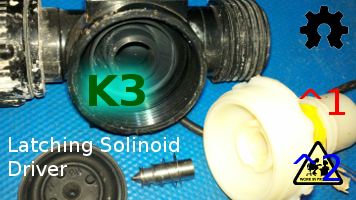
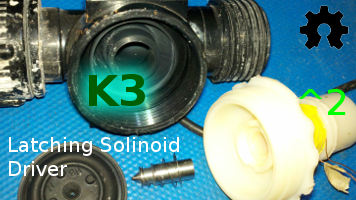
K3: ^2 evaluation

Changed region(s): [[0.8034, 0.69, 0.9888, 0.93], [0.8343, 0.42, 0.9888, 0.6]]

diff --git a/K3/Testing/readme.md b/K3/Testing/readme.md
@@ -19,12 +19,13 @@ This is a list of Test preformed on each board after assembly.
 
 ## Basics
 
-These tests are for an assembled K3 board 16276^1 which may be referred to as a Unit Under Test (UUT). If the UUT fails and can be reworked then do so, otherwise it needs to be scraped. 
+These tests are for an assembled K3 board 16276^2 which may be referred to as a Unit Under Test (UUT). If the UUT fails and can be reworked then do so, otherwise it needs to be scraped. 
 
 __Warning__: never use a soldering iron to rework ceramic capacitors due to the thermal shock.
 
-![Items used for test](./16276_ItemsUsedForTest.jpg "K3 With RPUno" "Items used for test")
+![ItemsForTest1to7](./16276_ItemsUsedForTest[1-7].jpg "Items used for test 1to7")
 
+![ItemsForTest8](./16276_ItemsUsedForTest[8].jpg "Items used for test 8")
 
 ## Assembly check
 
@@ -38,24 +39,24 @@ Check continuity between pin and pad by measuring the reverse body diode drop fr
 
 ## Bias 5V
 
-Setup a current limited supply with 5V and about 20mA limit. Connect A0, A1, A2 (J3 pin 1, 3, 5), and 0V (J3 pin 2,4,6; J2 pin 3) to the supply return. Connect SUPPLY (J2 pin 2) and VCC (J3 pin 8) to the supply. Connect E3 (which has a pull down) to a switch that is connected to supply when closed. Verify that nE1 (J3 pin 10) and nE2 (J3 pin 9) are pulled down by 10k Ohm resistors. Measure the input current while disabled.
+Setup a current limited supply with 5V and about 30mA limit. Connect A0 (J3 pin 1), A1 (J3 pin 3), A2 (J3 pin 5), and all 0V (J3 pin 2,4,6, J2 pin 3) to the supply return. Connect SUPPLY (J2 pin 2) and VCC (J3 pin 8) to the supply. Connect E3 (which has a pull down) to a switch that connects to supply when closed. Verify that nE1 (J3 pin 10) and nE2 (J3 pin 9) are each pulled down by 10k Ohm resistor. Measure the input current while disabled.
 
 ``` 
  TODO:  some data from unit(s)
-{"DISABLED_mA":[0.2,] }
+{"DISABLED_mA":[0.2,0.2,] }
 ``` 
 
 Close the switch that connects E3 to the 5V supply to turn on the current source that is used to test for a shorted bridge, wait for it to settle (about one second) and measure that the current drawn is less than 5 mA.
 
 ``` 
  TODO:  some data from unit(s)
-{"ENABLED_mA":[3.7,] }
+{"ENABLED_mA":[3.7,3.2,] }
 ``` 
 
 Add 100 Ohm load between BOOST (C4 plus pin) and 0V (J2 pin 3). Measure the current source.
 
 ``` 
-{ "CURR_SOURCE_mA":[17.6,] }
+{ "CURR_SOURCE_mA":[17.6,16.9,] }
 ``` 
 
 
@@ -64,20 +65,20 @@ Add 100 Ohm load between BOOST (C4 plus pin) and 0V (J2 pin 3). Measure the curr
 Setup current limited supply with 5V and about 400mA limit. Connect A1, A2 (J3 pin 3, 5), and 0V (J3 pin 2,4,6; J2 pin 3) to the supply return.  Connect A0, VCC (J3 pin 1, 8) and SUPPLY (J2 pin 2) to supply. Connect E3 (which has a pull down) to a switch that is connected to supply when closed. Connect 0 Ohm short between BOOST (C4 plus pin) and 0V (J2 pin 3). Turn on the supply and Check that boot supply is off (e.g. only current source). Which shows that a shorted bridge will lock out the supply.
 
 ```
-{ "9VBOOSTOFF_mA":[17.6,]}
+{ "9VBOOSTOFF_mA":[17.6,16.9,]}
 ```
 
 Open the 0 Ohm load and Check that the boost voltage is 9V.
 
 ```
-{ "9VBOOST_V":[9.2,]}
+{ "9VBOOST_V":[9.2,9.3]}
 ```
 
 Connect a 100 Ohm load between BOOST (C4 plus pin) and 0V (J2 pin 3). Check BOOST voltage and current draw.
 
 ```
-{ "9VBOOSTLD_V":[9.16,],
-"9VBOOSTLD_mA":[215,]}
+{ "9VBOOSTLD_V":[9.16,9.4,],
+"9VBOOSTLD_mA":[215,236,]}
 ```
 
 NOTE: the 17mA current source is used to test for a short, if the voltage it causes is not high enough then the PMOS (Q19) that connects the boost to SUPPLY does not enable, also the shutdown hack (Q25) does not enable. These safty features that should prevent a shorted bridge from connecting to the supply.
@@ -88,20 +89,20 @@ NOTE: the 17mA current source is used to test for a short, if the voltage it cau
 Setup current limited supply with 5V and about 400mA limit. Connect A1, A2 (J3 pin 3, 5), and 0V (J3 pin 2,4,6; J2 pin 3) to the supply return.  Connect A0, VCC (J3 pin 1, 8) and SUPPLY (J2 pin 2) to supply. Connect E3 (which has a pull down) to a switch that is connected to supply when closed. Connect 0 Ohm short between BOOST (C4 plus pin) and 0V (J2 pin 3). Jumper for 12V boots (J4 pin 2 to pin 3). Turn on the supply and Check that boot supply is off.
 
 ```
-{ "12VBOOSTOFF_mA":[17.6,]}
+{ "12VBOOSTOFF_mA":[17.6,16.9,]}
 ```
 
 Open the 0 Ohm short and Check that the boost voltage is 12V. 
 
 ```
-{ "12VBOOST_V":[12.15,]}
+{ "12VBOOST_V":[12.15,12.3,]}
 ```
 
 Connect a 100 Ohm load between BOOST (C4 plus pin) and 0V (J2 pin 3). Check BOOST voltage and current draw.
 
 ```
-{ "12VBOOSTLD_V":[9.9,],
-"12VBOOSTLD_mA":[257,]}
+{ "12VBOOSTLD_V":[9.9,9.8,],
+"12VBOOSTLD_mA":[257,264,]}
 ```
 
 NOTE: The boost supply is in current limit with the 100 Ohm load, and shows how much the SUPPLY needs to be able to provide if a brown out is to be avoided.
@@ -113,20 +114,20 @@ Setup current limited supply with 5V and about 400mA limit. Connect A1, A2 (J3 p
 
     
 ```
-{ "24VBOOSTOFF_mA":[17.6,]}
+{ "24VBOOSTOFF_mA":[17.6,16.9,]}
 ```
 
 Open the 0 Ohm short and Check that the boost voltage is 24V. 
 
 ```
-{ "24VBOOST_V":[24.8,]}
+{ "24VBOOST_V":[24.8,24.5]}
 ```
 
 Connect the 100 Ohm load between BOOST (C4 plus pin) and 0V (J2 pin 3). Check BOOST voltage and current draw.
 
 ```
-{ "24VBOOSTLD_V":[9.9,],
-"24VBOOSTLD_mA":[257,]}
+{ "24VBOOSTLD_V":[9.9,9.8,],
+"24VBOOSTLD_mA":[257,264,]}
 ```
 
 ## K[1..3] Set and Reset
@@ -135,13 +136,82 @@ The [Solenoid] firmware can be used to test operation of the bridges with a LED 
 
 [Solenoid]: https://github.com/epccs/RPUno/tree/master/Solenoid
 
-Setup an RPUno and connect it to the K3 board as shown, but use the LED strings in place of the coils.
+Install Git and AVR toolchain on Ubuntu (16.04, on an old computer try https://wiki.ubuntu.com/Lubuntu). 
+
+```
+sudo apt-get install git gcc-avr binutils-avr gdb-avr avr-libc avrdude
+```
+
+Clone the RPUftdi, RPUadpt, and RPUno repositorys.
+
+```
+cd ~
+git clone https://github.com/epccs/RPUftid
+git clone https://github.com/epccs/RPUadpt
+git clone https://github.com/epccs/RPUno
+```
+
+Install RPUftid bus manager firmware Host2Remote with an ICSP tool. If needed set the make rule so it works with the ICSP tool used (I use an ArduinoISP sketch).
+
+```
+cd ~/RPUftdi/Bootload
+make fuse
+... cruft ...
+cd ~/RPUftdi/Host2Remote
+make isp
+... cruft ...
+```
+
+Install RPUadpt bus manager firmware Remote with an ICSP tool. 
+
+```
+cd ~/RPUadpt/Bootload
+make fuse
+... cruft ...
+cd ~/RPUadptRemote
+make isp
+... cruft ...
+```
+
+The default bootload address for Host2Remote is '0', which is its own address. Load the i2c-debug firmware onto the first MCU board through the RPUftdi. 
+
+```
+cd ~RPUno/i2c-debug
+make bootload
+```
+
+Now change the bootload address to '1'. Connect with picocom and set the byte that is sent when DTR/RTS toggles ('1' is 0x31 or 49).
+
+``` 
+~$ picocom -b 38400 /dev/ttyUSB0
+... cruft ...
+/0/address 41
+{"address":"0x29"}
+/0/buffer 3,49
+{"txBuffer":[{"data":"0x3"},{"data":"0x31"}]}
+/0/read? 2
+{"rxBuffer":[{"data":"0x3"},{"data":"0x31"}]}
+``` 
+Exit picocom with C-a, C-x. This is now the bootload address that is broadcast when avrdude runs.
+
+To check this use picocom to connect. The DUT's red MNG_LED blinks when the bus manager is addressed over the DTR pair. Exit picocom with C-a, C-x. The MNG_LED should stop blinking after picocom exits.
+
+Now load the [Solenoid] firmware onto the second MCU board under the DUT. 
+
+```
+cd ~RPUno/Solenoid
+make bootload
+```
 
 ![Example](../Documents/Example.png "Example")
 
 * NOTE: the LED's light up one string for each selection, e.g. SET is a different LED string than RESET for each pretend coil. To do this the LED's in the SET string are polarized in the opposite direction as the ones in RESET. The LED's can't withstand the reverse polarity of the applied voltage so a 1N4148 is also added to the string to block the reverse polarity.
 
-When the RPUno is reset the firmware will operate each coil with a SET and then a RESET with a one-second pause for each operation. 
+When the RPUno is reset the firmware will operate each coil with a SET and then a RESET with a one-second pause for each operation. Since the bootload address is still pointing to '1' using picocom will cause the reset.
 
+``` 
+~$ picocom -b 38400 /dev/ttyUSB0
+... cruft ...
+``` 
 
-
+Exit picocom with C-a, C-x. If the LED strings each blink for SET and RESET then the half H-bridges are working.

diff --git a/K3/README.md b/K3/README.md
@@ -37,19 +37,21 @@ Latching solenoids are driven with a current pulse that last a short duration. T
 This was split out of Irrigate7 to try some ideas. The goal is to return an improved version to the Irrigate7 board.
 
 ```
-        ^2  Done: Design, Layout, BOM,
-            WIP: Review*,
-            Todo:  Order Boards, Assembly, Testing, Evaluation.
+        ^2  Done: Design, Layout, BOM, Review*, Order Boards, Assembly, Testing,
+            WIP: Evaluation.
+            Todo:   
             *during review the Design may change without changing the revision.
             Remove the parts that allow boost to connect to plug, just connect it with option to cut jumper.
             Use E3 to enable current source used to test for bridge short (save some power).
+            location: 2017-3-30 Bench /w RPUno^6, RPUadpt^5.
 
         ^1  Done: Design, Layout, BOM, Review*, Order Boards, Assembly, Testing,
             WIP: Evaluation.
             location: 2016-2-5 SWall Encl /w RPUno^5, RPUadpt^4, SLP003-12U, 12V battery.
             
         ^0  location: 2016-12-1 SWall Encl /w RPUno^4, RPUadpt^4, SLP003-12U, 12V battery.
-                      2016-2-4 removed.   
+                      2016-2-4 removed.
+                      2017-3-28 scraped (parts used on ^2).
 ```
 
 
@@ -110,7 +112,7 @@ Latching cost more so why not just use a energized relay. One reason is that ene
 
 The set pulse applies a voltage to the coil and produces a current in a direction that will cause the Laplace force to move the solenoid into that physical location. The reset pulse applies an opposite polarity to the coil. Once in the location some other force (spring, permanent magnet, air pressure... ), will hold the solenoid in that place.
 
-The idea is to set one of E3, nE2, or nE3 to DISABLE. Then change A0, A1, A2. Once A0 ... A2 have been selected the action happens when E3, nE2, and nE3 are all set active. Use the following settings: 
+For this circuit, the idea is to set one of the E3, nE2, or nE3 to DISABLE. Then change A0, A1, A2. Once A0 ... A2 have been selected the action happens when E3, nE2, and nE3 are all set active. Use the following settings:  
 
 ```
          A0 A1 A2 E3 nE2 nE1 : DESC
@@ -127,9 +129,12 @@ The idea is to set one of E3, nE2, or nE3 to DISABLE. Then change A0, A1, A2. On
          5V 5V 5V 5V 0V  0V  : RESET K3
 ```
 
-Before a pulse can be sent the boost converter has to build a charge. Once charged a pulse can be applied to set K1 by writing A0, A1, and A2 inputs simultaneously (e.g. a bus or port operation). Wiring ( e.g. the digitalWrite() function ) makes it easy to change one pin at a time, unfortunately that would send the charge to the first address line that changed, so first set E3 inactive and then change the A0, A1, A2 pins, finally set the E3 pin active to send the pulse.
+Before a pulse can be sent the boost converter has to build a charge. Once charged a pulse can be applied to set K1 by writing A0, A1, and A2 inputs simultaneously (e.g. a bus or port operation). Wiring ( e.g. the digitalWrite() function) makes it easy to change one pin at a time, unfortunately that would send the charge to the first address line that changed, so first set E3 inactive and then change the A0, A1, A2 pins, finally set the E3 pin active to send the latching pulse.
 
 ![Example](./Documents/Example.png "Example")
+
+I've been using CAT5 pair to wire the coils. At nearly 5 Amps peak that may be risky but for a short duration pulse the CAT5 pair seems to work (your mileage may vary, but it is cheap and the twisted pair helps keep the pulse from generating EMI). 
+
 
 Solenoid options
 
